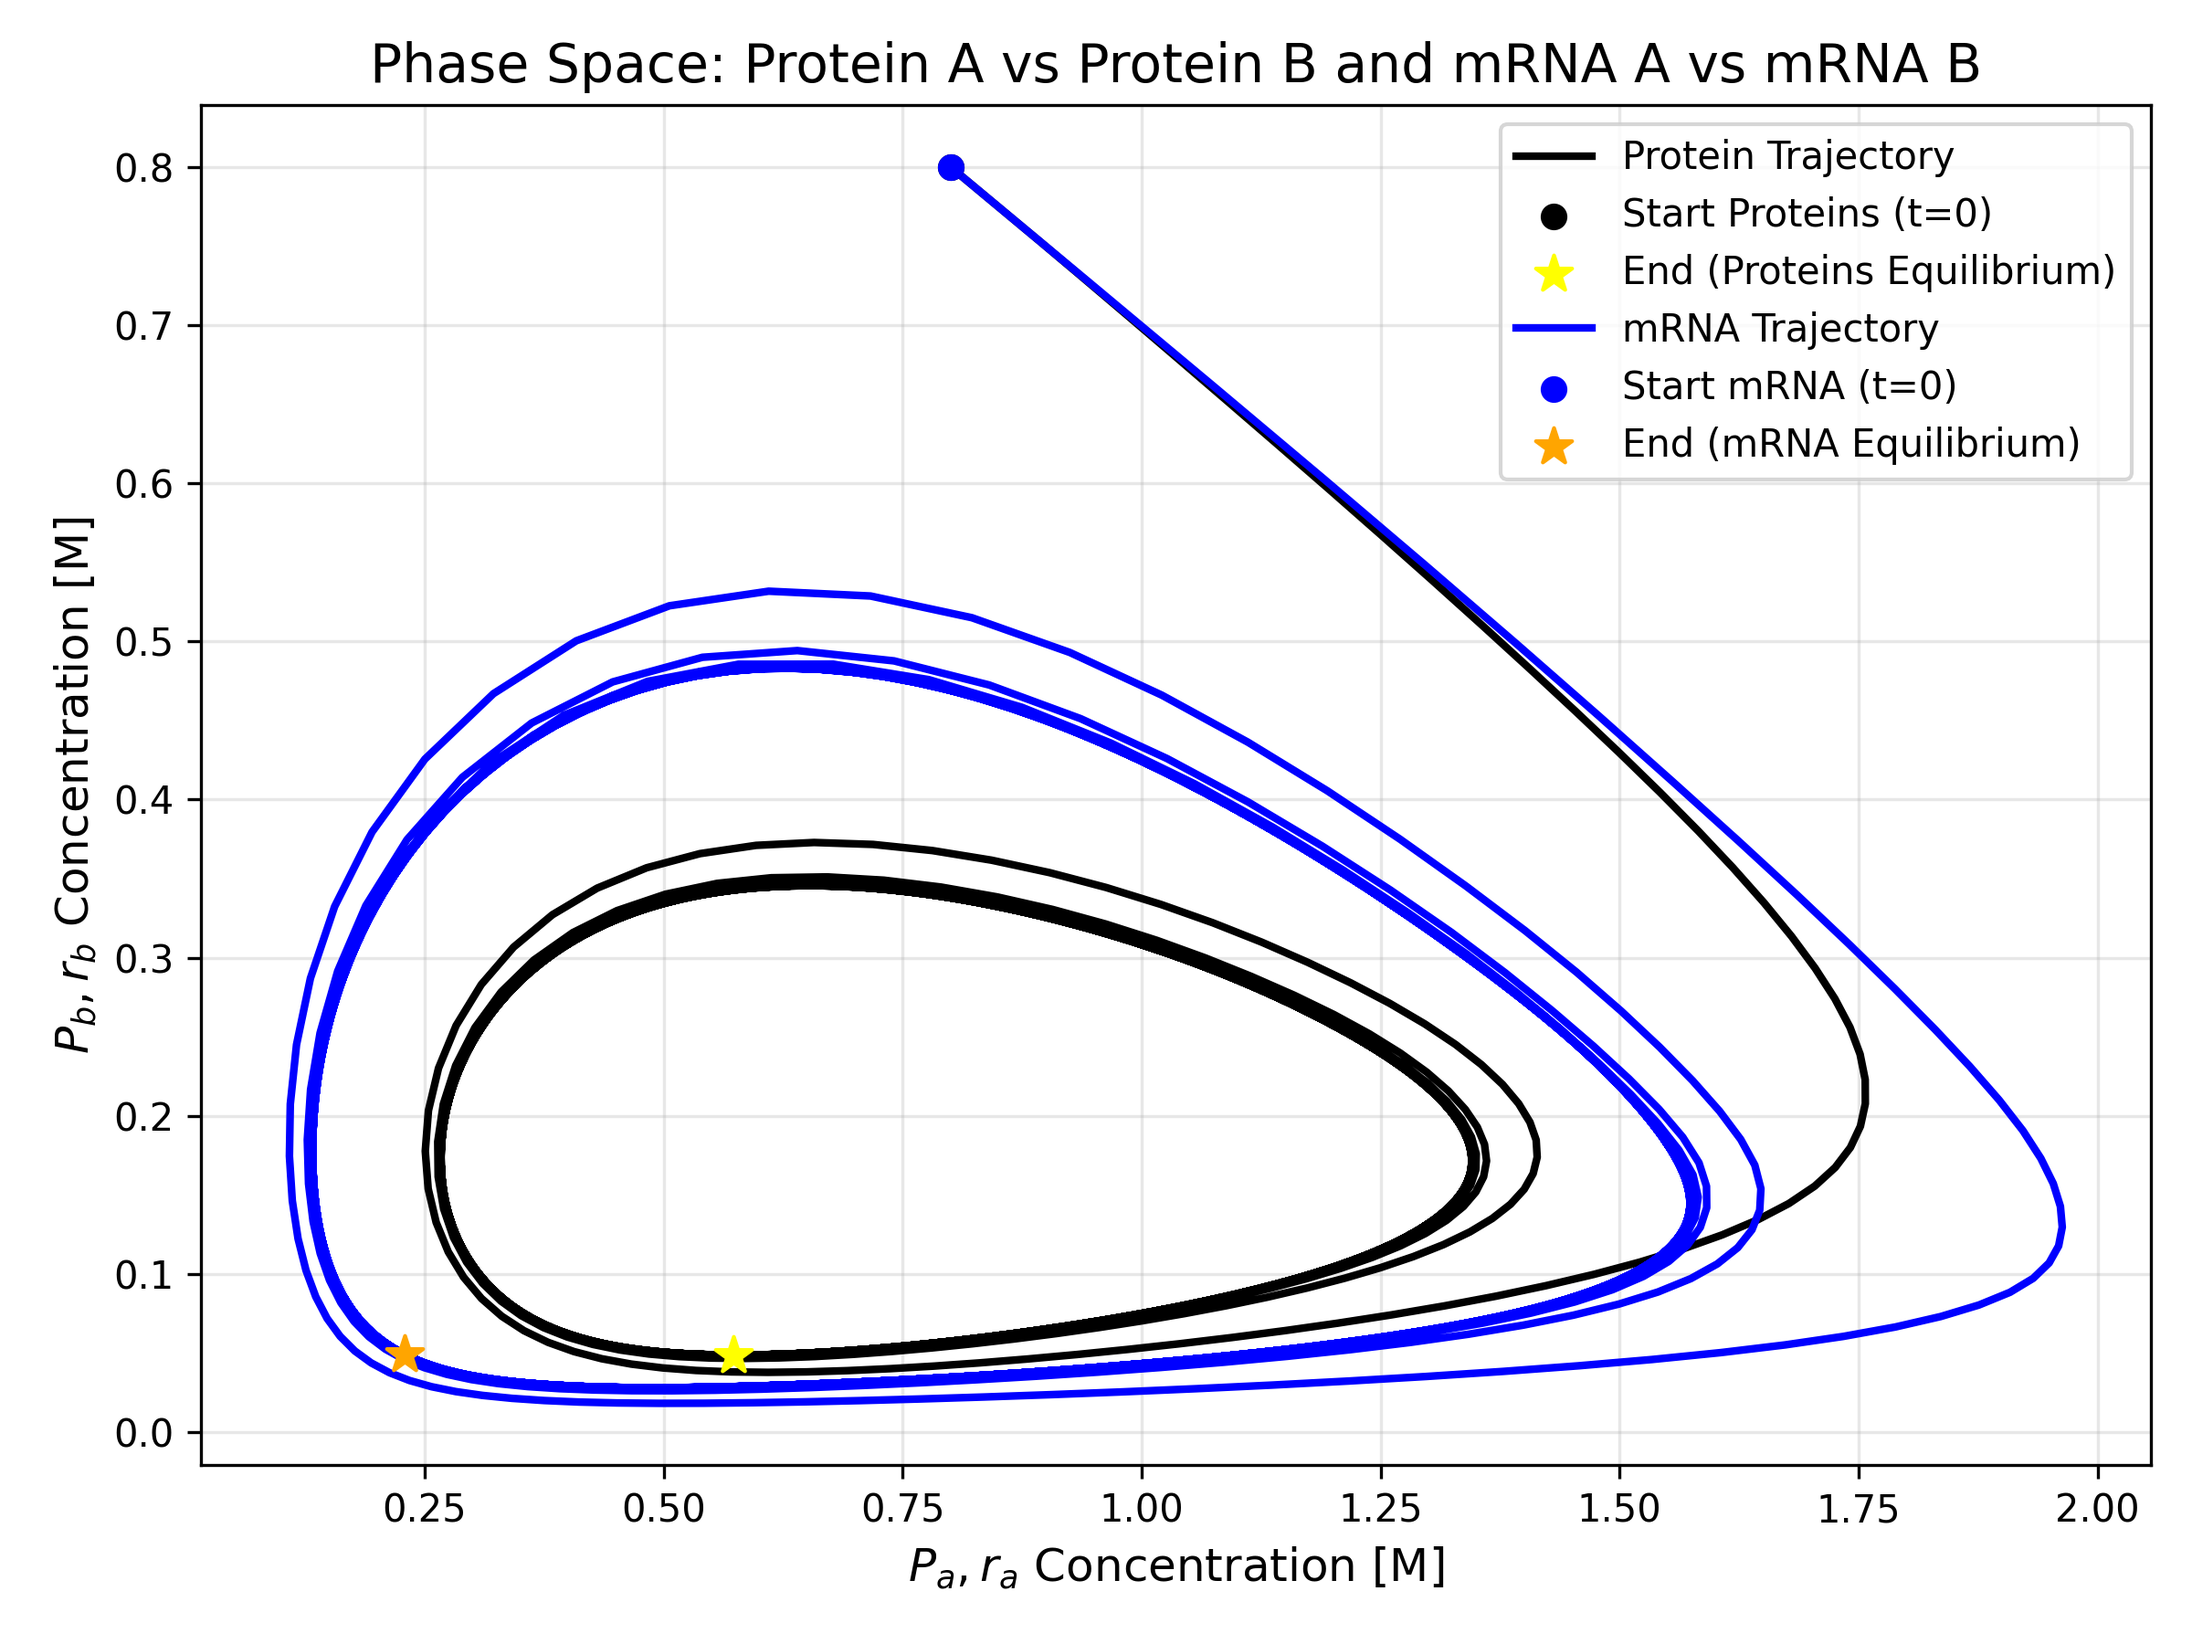
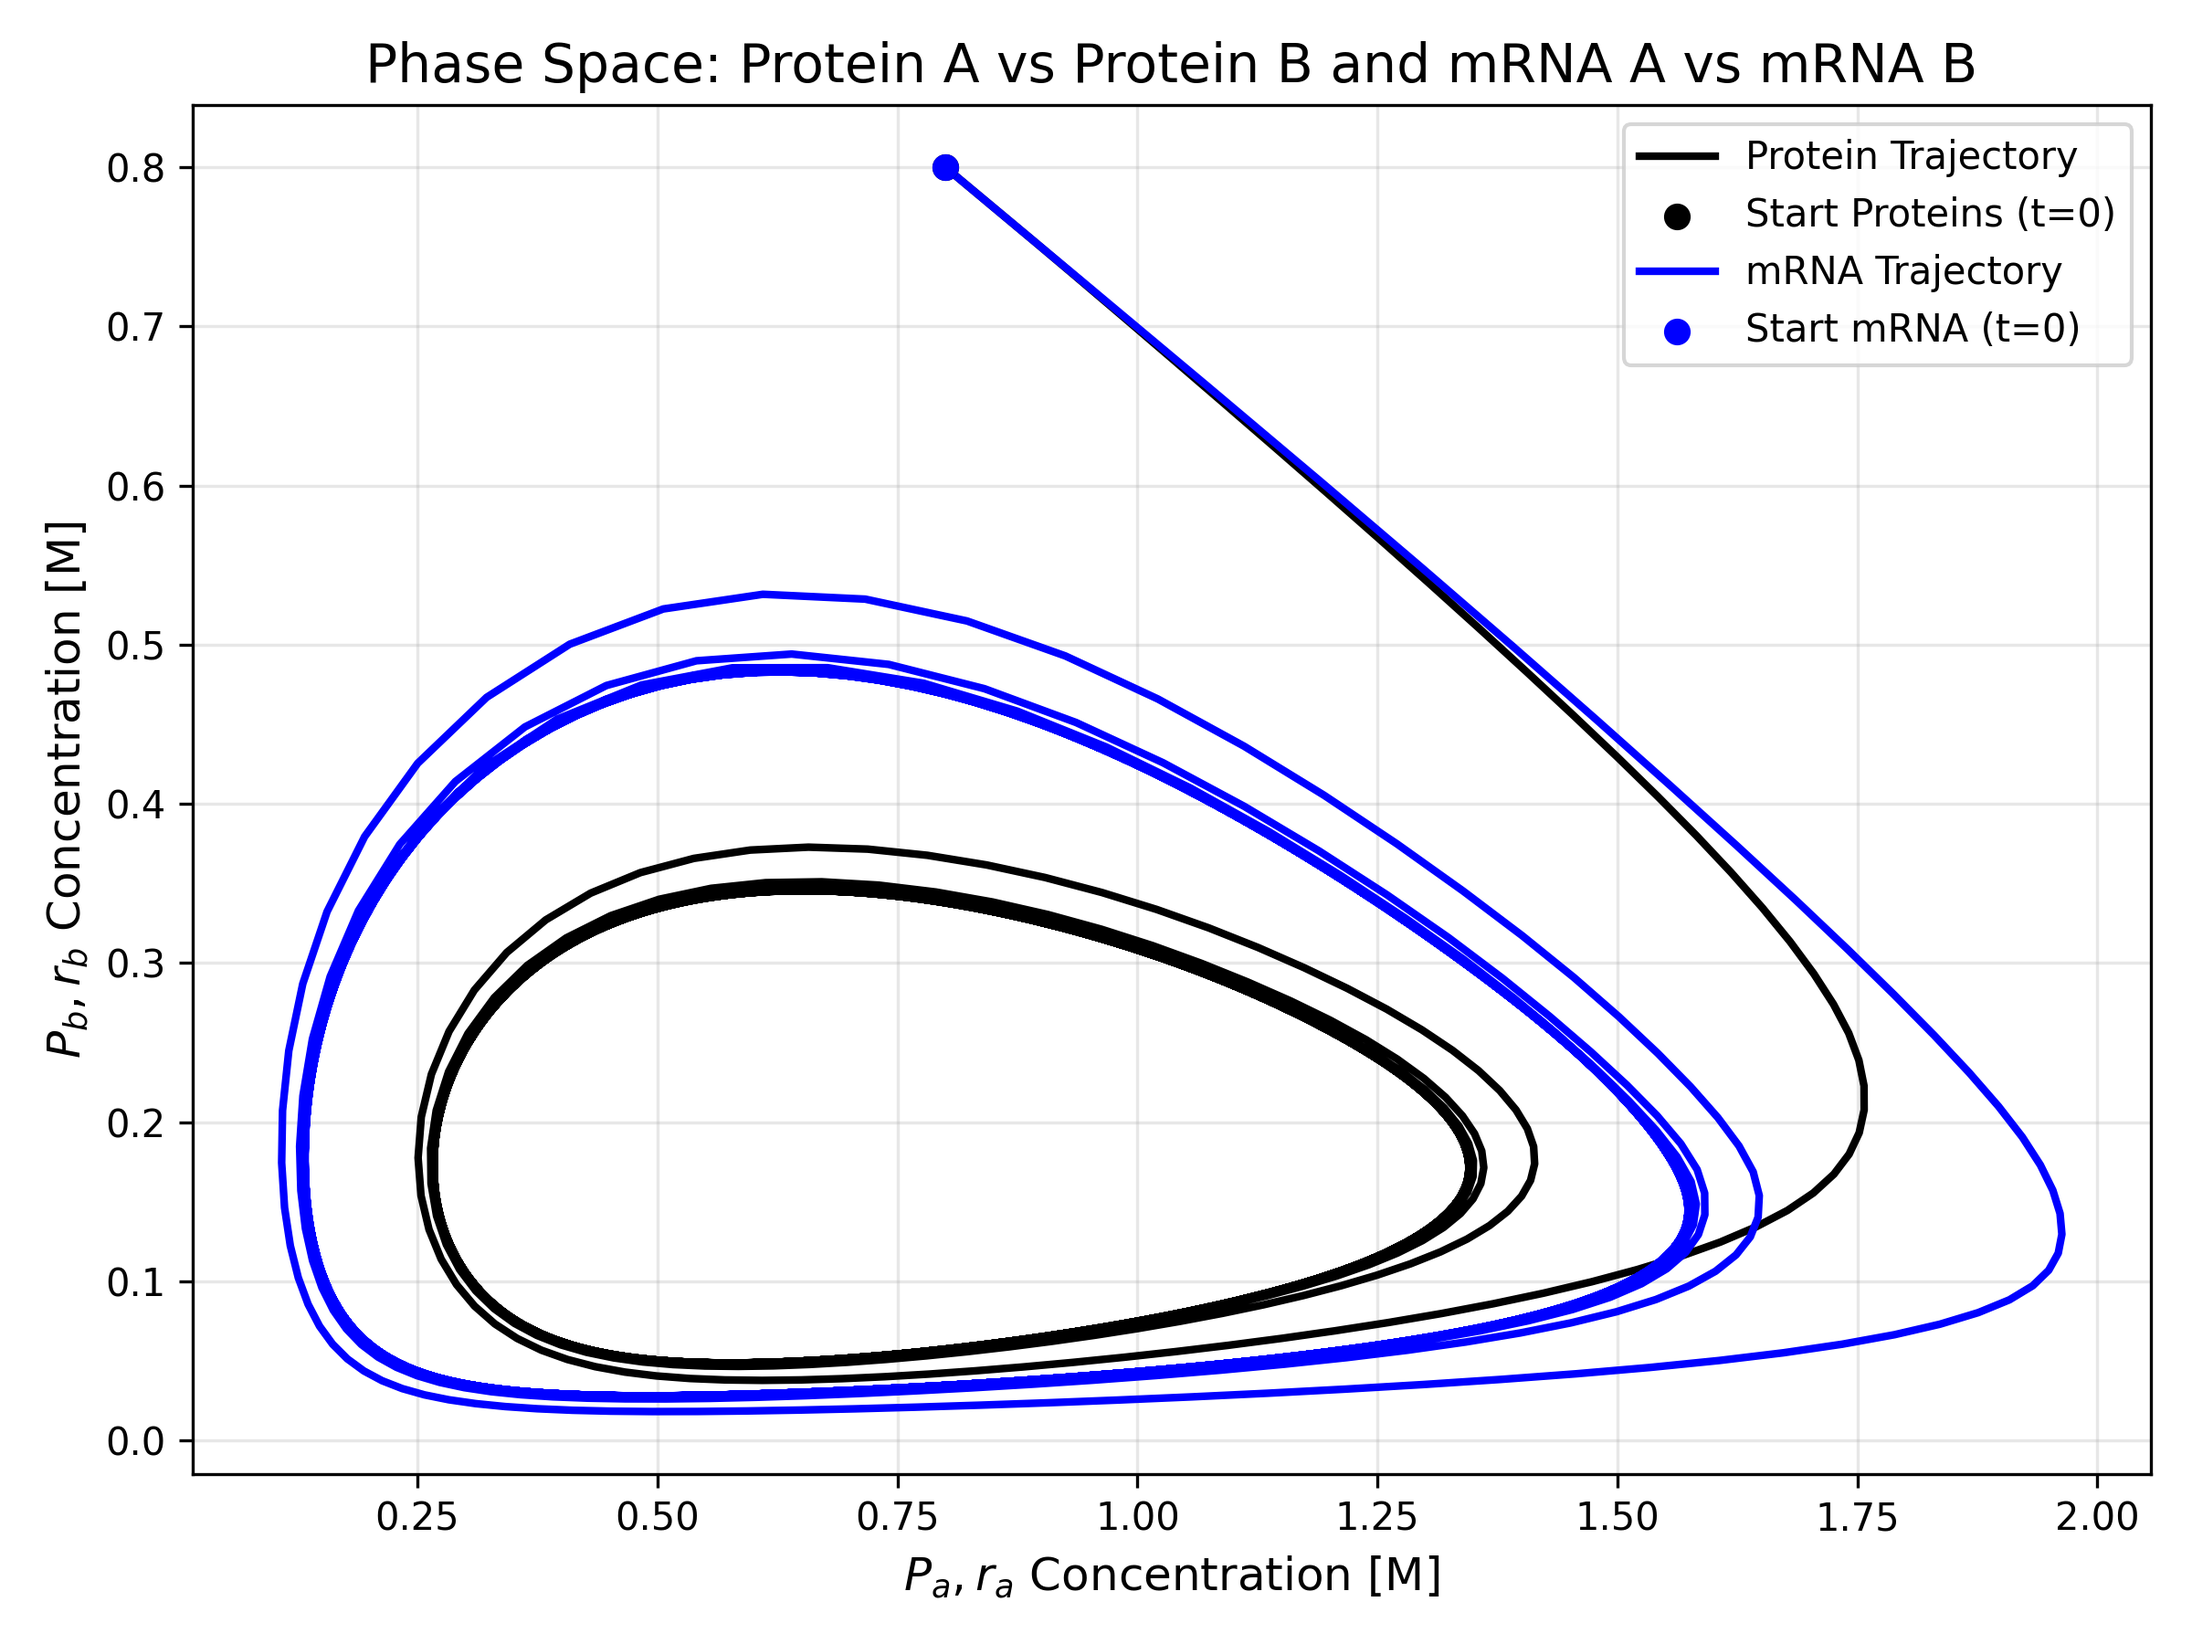
update sdevelo plots

diff --git a/assignment2/main.py b/assignment2/main.py
@@ -2,6 +2,8 @@ import os
 import numpy as np
 import matplotlib.pyplot as plt
 from scipy.integrate import solve_ivp
+from scipy.optimize import fsolve
+from scipy.interpolate import griddata
 from matplotlib.lines import Line2D
 import pandas as pd
 
@@ -293,62 +295,66 @@ def solve_sde_velo(dt, steps):
 
 def sdevelo_phase_portrait(sol_sde, label_sde, ode_func, savefig=None, title="", ode_args=(), padding=0.1, grid_size=20):
     u, s, p, t = sol_sde
+    pA_sde, pB_sde = np.ravel(p[0]), np.ravel(p[1])
 
-    pA_min, pA_max = p[0].min(), p[0].max()
-    pB_min, pB_max = p[1].min(), p[1].max()
+    pA_min, pA_max = pA_sde.min(), pA_sde.max()
+    pB_min, pB_max = pB_sde.min(), pB_sde.max()
 
     pA_range = pA_max - pA_min if (pA_max - pA_min) > 0 else 1.0
     pB_range = pB_max - pB_min if (pB_max - pB_min) > 0 else 1.0
 
-    pA_grid = np.linspace(pA_min - padding * pA_range, pA_max + padding * pA_range, grid_size)
-    pB_grid = np.linspace(pB_min - padding * pB_range, pB_max + padding * pB_range, grid_size)
+    pA_grid = np.linspace(max(0, pA_min - padding * pA_range), pA_max + padding * pA_range, grid_size)
+    pB_grid = np.linspace(max(0, pB_min - padding * pB_range), pB_max + padding * pB_range, grid_size)
     PA, PB = np.meshgrid(pA_grid, pB_grid)
     
     U = np.zeros_like(PA)
     V = np.zeros_like(PB)
     
+    def mrna_roots(vars_r, pa_val, pb_val):
+        ra, rb = vars_r
+        derivs = ode_func(0, [ra, rb, pa_val, pb_val], *ode_args)
+        return [derivs[0], derivs[1]] 
+    
+    ra_guess, rb_guess = np.mean(u), np.mean(s)
+    
     for i in range(grid_size):
         for j in range(grid_size):
-            state = [u[-1], s[-1], PA[i, j], PB[i, j]]
-            derivatives = ode_func(0, state, *ode_args) 
-            U[i, j] = derivatives[2] 
-            V[i, j] = derivatives[3]
+            pa_val = PA[i, j]
+            pb_val = PB[i, j]
+            
+            try:
+                ra_ss, rb_ss = fsolve(mrna_roots, [ra_guess, rb_guess], args=(pa_val, pb_val))
+            except Exception:
+                ra_ss, rb_ss = ra_guess, rb_guess
+                
+            derivatives = ode_func(0, [ra_ss, rb_ss, pa_val, pb_val], *ode_args) 
+            
+            U[i, j] = float(np.squeeze(derivatives[2]))
+            V[i, j] = float(np.squeeze(derivatives[3]))
             
     N = np.sqrt(U**2 + V**2)
     N[N == 0] = 1.0
     U_norm = U / N
     V_norm = V / N
 
-    plt.quiver(PA, PB, U_norm, V_norm, color='lightgray', alpha=0.8, pivot='mid', scale=35, width=0.003)
+    fig, ax = plt.subplots()
 
+    ax.quiver(PA, PB, U_norm, V_norm, color='lightgray', alpha=0.8, pivot='mid')
+    ax.plot(pA_sde, pB_sde, label=label_sde, color="tab:purple", zorder=4, alpha=0.8)
 
-    plt.streamplot(PA, PB, U, V, color='lightgray', linewidth=1, density=1, arrowsize=1)
-    plt.plot(p[0], p[1], label=label_sde, color="tab:red")
-    # # plt.axvline(theta[0], color="gray", linestyle="--", label="Binding Threshold (θ)")
-    # # plt.axhline(theta[1], color="gray", linestyle="--")
-    # plt.plot(sol_ode.y[2], sol_ode.y[3], label=label_ode, color="tab:blue")
+    ax.scatter(pA_sde[0], pB_sde[0], color="tab:purple", marker="o", zorder=5, label="Initial state")
+    ax.scatter(pA_sde[-1], pB_sde[-1], color="tab:purple", marker="v", zorder=5, label="Final state")
 
-    plt.xlabel("Protein A Concentration [M]")
-    plt.ylabel("Protein B Concentration [M]")
-    plt.legend()
-    plt.grid(True, which="both", linestyle=":", alpha=0.5)
+    ax.set_xlabel("Protein A Concentration [M]")
+    ax.set_ylabel("Protein B Concentration [M]")
+    ax.grid(True, alpha=0.3)
 
-    plt.scatter(p[0, 0], p[1, 0], color="black", zorder=5)
-    plt.annotate(
-        "Initial state", (p[0, 0], p[1, 0]), textcoords="offset points", xytext=(10, -10)
-    )
-
-    plt.scatter(p[0, -1], p[1, -1], color="black", zorder=5)
-    plt.annotate(
-        "Final state", (p[0, -1], p[1, -1]), textcoords="offset points", xytext=(10, -10)
-    )
-
-    plt.title(title)
+    ax.legend()
+    ax.set_title(title)
 
     if savefig is not None:
-        plt.savefig(f"plots/{savefig}")
+        plt.savefig(f"plots/{savefig}", bbox_inches="tight")
     plt.show()
-
 
 def sdevelo_multiplot(n_runs, dt, steps, sol_ode, title="", savefig=None):
     t = np.linspace(0, steps * dt, steps)
@@ -401,7 +407,7 @@ def sdevelo_multiplot(n_runs, dt, steps, sol_ode, title="", savefig=None):
     plt.title(f"{title} ($n_{{\\text{{SDEVelo}}}}={n_runs}$)")
     plt.xlabel("Time [s]")
     plt.ylabel("Concentration [M]")
-    plt.grid(True, which="both", linestyle=":", alpha=0.5)
+    plt.grid(True, alpha=0.3)
 
     if savefig is not None:
         plt.savefig(f"plots/{savefig}")
@@ -504,7 +510,7 @@ def plot_sdevelo_concentrations(
     plt.xlabel("Time [s]")
     plt.ylabel("Concentration [M]")
     plt.title(rf"{title} ($n={n_runs})$")
-    plt.grid(True, which="both", linestyle=":", alpha=0.5)
+    plt.grid(True, alpha=0.3)
 
     if savefig is not None:
         plt.savefig(f"plots/{savefig}")
@@ -619,9 +625,9 @@ if __name__ == "__main__":
         "Patient Beta",
         patient_alpha_ode,
         ode_args=(False,),
+        grid_size=20,
         title="Phase Portrait of Protein concentrations",
         savefig="sdevelo_phase_portrait",
-        grid_size=100,
     )
 
     sdevelo_multiplot(
